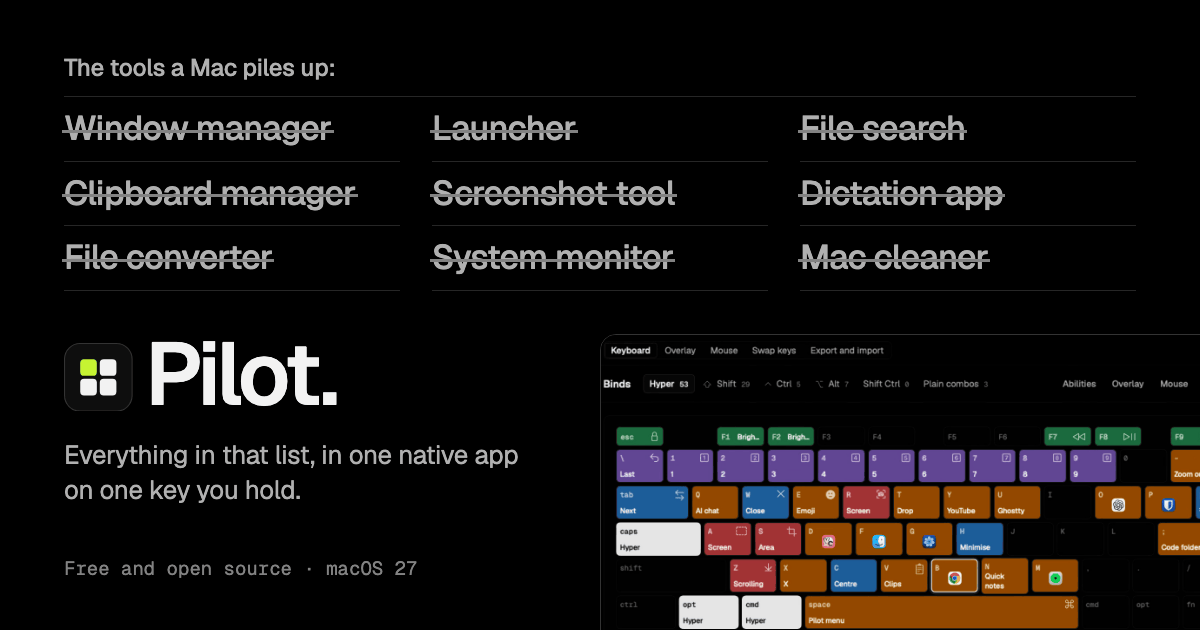
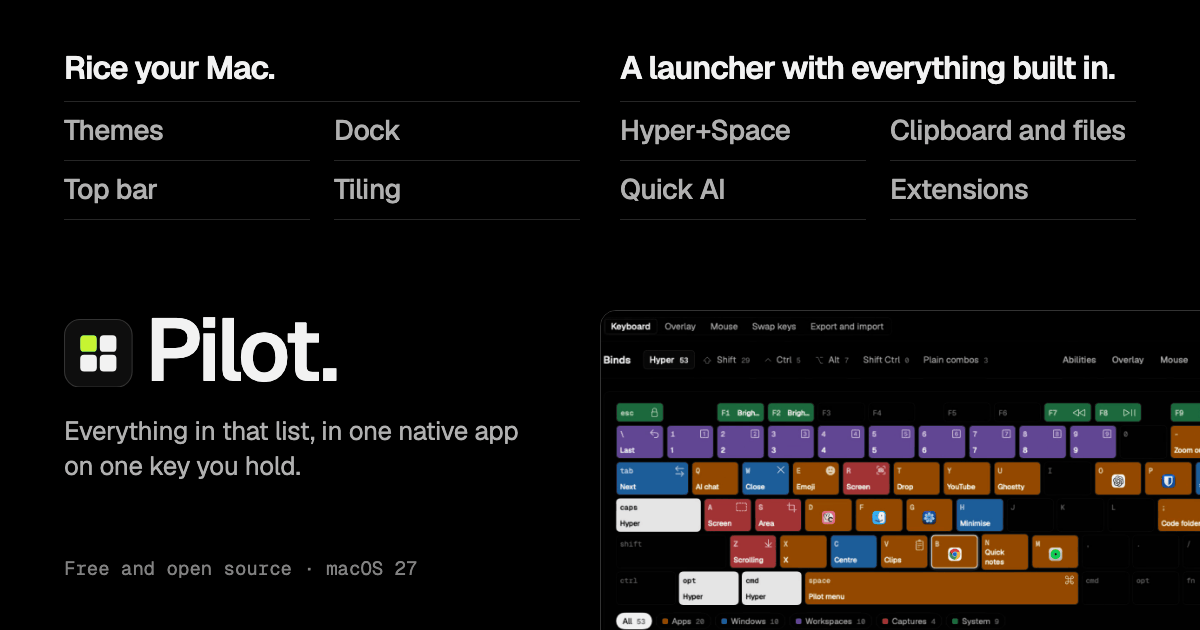
site: share card follows hero A; More Pilot does well is four cards
The share card drew the old twelve struck tools; it now draws the
hero's two groups, Rice your Mac first, their row names, then Pilot.,
its line and the key board (Q804: the card follows the hero; Q244 A; no
brand names). More Pilot does well shrinks to the struck tools the
groups leave out: Screenshots, Dictation on your Mac, Pilot Files,
Convert. Generated from the vault site-generator (og.py, site.py).

Proof: card 1200x630, 62685 bytes, under its 93132-byte budget, viewed;
Chrome via Playwright on site/index.html at 1440 light and dark and
390: five More cards, no console errors, no sideways scroll.

Claude-Session: https://claude.ai/code/session_013fR918VQtjqKCDJfxkoXeQ

diff --git a/site/index.html b/site/index.html
@@ -306,8 +306,8 @@ button, input { font: inherit; color: inherit; }
   </section>
 
   <section class="w more2" aria-labelledby="more-h">
-    <div class="chead"><h2 id="more-h">More Pilot does well.</h2><span class="brush" aria-hidden="true"></span><p>A few of the quieter ones. Every feature has its key and where it lives on its area page.</p></div>
-    <div class="mgrid"><div class="mcard"><span class="mi"><svg class="i" aria-hidden="true"><use href="#i-ring"/></svg></span><b>Ring menu</b><p>Hold a mouse button or a key and up to eight actions ring the pointer: flick toward one and let go.</p><small>hold button</small></div><div class="mcard"><span class="mi"><svg class="i" aria-hidden="true"><use href="#i-cols"/></svg></span><b>Scrolling layout</b><p>Each window is a column on a strip that scrolls sideways, so a wide screen holds as many as you want.</p><small>Desktop › Workspaces</small></div><div class="mcard"><span class="mi"><svg class="i" aria-hidden="true"><use href="#i-cursor"/></svg></span><b>Selection pill</b><p>Hyper+drag over any text and a pill offers Ask AI, Read aloud, Copy and Translate.</p><small>Hyper+drag</small></div><div class="mcard"><span class="mi"><svg class="i" aria-hidden="true"><use href="#i-trend"/></svg></span><b>Learns what you use</b><p>Results rank by how often and how recently you pick them.</p><small>Automatic</small></div><div class="mcard"><span class="mi"><svg class="i" aria-hidden="true"><use href="#i-tag"/></svg></span><b>Words after an alias</b><p>An alias and words act on them: tr hello translates, em funny finds emoji, gif cat opens GIFs on that search, kill chrome, cb invoice.</p><small>Type its name in Hyper+Space</small></div><div class="mcard"><span class="mi"><svg class="i" aria-hidden="true"><use href="#i-resize"/></svg></span><b>Uncrop</b><p>Drag a crop edge past the capture and the screen round it comes back; Whole capture and As taken put it back.</p><small>Capture editor</small></div><div class="mcard"><span class="mi"><svg class="i" aria-hidden="true"><use href="#i-bot"/></svg></span><b>Agents can drive Pilot</b><p>Codex reaches Pilot through the bundled MCP server; CLI agents use the same pilot command. /theme in Ask Pilot helps create, validate and preview saved packs through the shared engine; Apply and optional reload still need separate user approvals.</p><small>Hyper+Q</small></div><div class="mcard"><span class="mi"><svg class="i" aria-hidden="true"><use href="#i-timer"/></svg></span><b>Copied secrets expire</b><p>A copied card number or key leaves the history after a timer you set; a switch turns it off.</p><small>Tools › Clipboard</small></div><div class="mcard"><span class="mi"><svg class="i" aria-hidden="true"><use href="#i-shield"/></svg></span><b>No tracking</b><p>No analytics and no crash reporting; even the terminal Pilot downloads is built with Sentry off.</p><small>Always</small></div><a class="mcard wide" href="#features"><span class="mi"><svg class="i" aria-hidden="true"><use href="#i-apps"/></svg></span><b>A lot more to discover</b><p>246 features across 18 areas, each on its page with its key and where it lives in Pilot.</p></a></div>
+    <div class="chead"><h2 id="more-h">More Pilot does well.</h2><span class="brush" aria-hidden="true"></span><p>The other tools it replaces, each a key away. Every feature has its key and where it lives on its area page.</p></div>
+    <div class="mgrid"><div class="mcard"><span class="mi"><svg class="i" aria-hidden="true"><use href="#i-crop"/></svg></span><b>Screenshots</b><p>Capture an area, a window without its shadow, or the whole screen; a thumbnail opens the editor.</p><small>Hyper+S</small></div><div class="mcard"><span class="mi"><svg class="i" aria-hidden="true"><use href="#i-mic"/></svg></span><b>Dictation on your Mac</b><p>Talk and the words are typed where you are, by a speech model running on the Mac (Parakeet Ultra or Whisper); nothing goes to a server.</p><small>Tools › Voice › Dictation (pick a key: Right Control suggested)</small></div><div class="mcard"><span class="mi"><svg class="i" aria-hidden="true"><use href="#i-folder"/></svg></span><b>Pilot Files</b><p>A floating, resizable file window in place of Finder; Hyper+F toggles and clicking away minimises it: places, list and grid, real icons and thumbnails, a big preview, on glass; hidden apps never show.</p><small>Hyper+Space (Pilot Files)</small></div><div class="mcard"><span class="mi"><svg class="i" aria-hidden="true"><use href="#i-swap"/></svg></span><b>Convert</b><p>Right-click files in Finder, or Cmd+K on a file in the menu, to turn them into PNG, JPG, HEIC, WebP, PDF, MP4, MP3, GIF, DOCX and more.</p><small>Finder</small></div><a class="mcard wide" href="#features"><span class="mi"><svg class="i" aria-hidden="true"><use href="#i-apps"/></svg></span><b>A lot more to discover</b><p>246 features across 18 areas, each on its page with its key and where it lives in Pilot.</p></a></div>
   </section>
 
   <section class="wrap get" id="get" aria-labelledby="get-h">

diff --git a/site/pilot.css b/site/pilot.css
@@ -1010,7 +1010,8 @@
 .site .capR .more { position: relative; text-decoration: none; padding-bottom: 6px; }
 .site .capR .more::after { content: ""; position: absolute; left: -2px; right: -2px; bottom: -3px; height: 7px; background: var(--lime); -webkit-mask: var(--brush) 0 0 / 100% 100% no-repeat; mask: var(--brush) 0 0 / 100% 100% no-repeat; }
 .more2 { margin-top: 120px; }
-.mgrid { margin-top: 32px; display: grid; grid-template-columns: repeat(3, minmax(0, 1fr)); gap: 10px; }
+.mgrid { margin-top: 32px; display: grid; grid-template-columns: repeat(4, minmax(0, 1fr)); gap: 10px; }
+@media (max-width: 1100px) { .mgrid { grid-template-columns: repeat(2, minmax(0, 1fr)); } }
 .mcard { display: grid; grid-template-columns: 26px minmax(0, 1fr); grid-template-rows: auto 1fr auto; gap: 6px 12px; padding: 18px 18px 16px; border-radius: 14px; border: 1px solid var(--line2); background: color-mix(in srgb, var(--panel) 90%, transparent); }
 .mcard .mi { grid-row: 1 / span 3; width: 26px; height: 22px; display: grid; place-items: start center; color: var(--t2); }
 .mcard .mi svg { width: 18px; height: 18px; }
